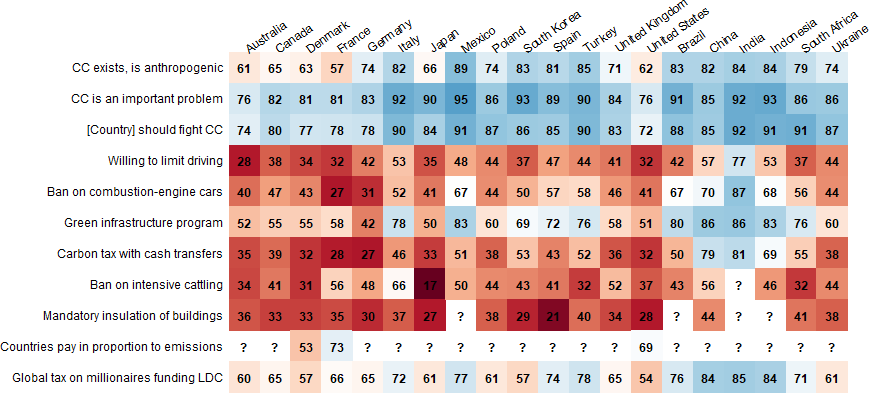
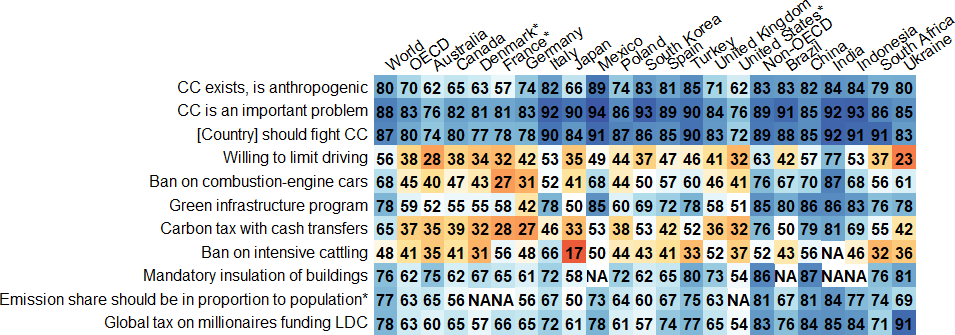
regressors_names, sets, fix bug variables_willing

diff --git a/presentations/FR_CAE.tex b/presentations/FR_CAE.tex
@@ -404,7 +404,12 @@ format) and how it translates into policy support.
 \section{Who supports what?}% Who supportes climate policies % Support for climate policies
 
 \begin{frame}{France is in the OECD average, global policies strongly supported}
-	% TODO: main policies heatmap
+	\begin{figure}[h!]
+		\centering		
+		\caption{Share of support (somewhat or strongly) to the main policies.}
+		\includegraphics[width=\paperwidth]{../figures/country_comparison/main_policies_positive_countries.png}
+		%\caption{}
+		\end{figure}
 \end{frame}
 
 
